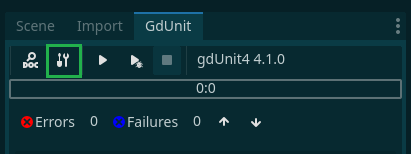
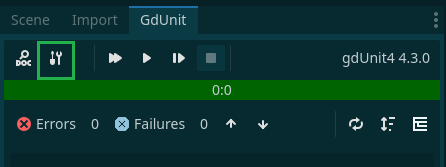
GD-478: Update documentation to v4.3.0
# Why
see https://github.com/MikeSchulze/gdUnit4/issues/478

# What
- added new screen shots
- added inspecor information about sort and presentation modes

diff --git a/assets/css/site-header.css b/assets/css/site-header.css
@@ -38,6 +38,11 @@ h4 {
     margin-top: 1.25rem;
 }
 
+.site-logo {
+    width: 120%;
+    height: 160px;
+}
+
 img.centered {
     display: block;
     margin-left: auto;

diff --git a/_testing/run-tests.md b/_testing/run-tests.md
@@ -5,11 +5,12 @@ nav_order: 2
 ---
 
 # How to Run Test
+
 Running tests in GdUnit is a straightforward process, and you have several options to choose from:
 
 ### Using the GdUnit Inspector
-The GdUnit Inspector provides various options to run single unit tests or sets of testsuites:
 
+The GdUnit Inspector provides various options to run single unit tests or sets of testsuites:
 
 - **Using the Button Bar**: You can use the buttons available in the GdUnit Inspector's to run tests.<br>
 Refer to the [Using the Button Bar](#button-bar) section for more details.
@@ -21,13 +22,14 @@ Explore the [Using the Inspector Tree](#test-run-overview-tree) section for inst
 Find more information in the [Using the Run Overall Button](#the-run-overall-button) section.
 
 ### Using the Editor Context Menu
+
 The Editor Context Menu provides options to run or debug individual test cases or entire testsuites:
 
 - **Using the Context Menu**: You can right-click on a specific test case or testsuite in the editor and select the appropriate option from the context menu.<br>
 For detailed steps, refer to the [Using the Context Menu](/gdUnit4/first_steps/getting-started/#execute-your-test) section.
 
-
 ### Using the FileSystem Context Menu
+
 The FileSystem Context Menu allows you to run or debug individual testsuites or sets of testsuites by selecting the desired testsuite or folder:
 
 ![FileSystem Context Menu](/gdUnit4/assets/images/inspector/run-test-filesystem.png){:.centered}
@@ -37,9 +39,11 @@ These options provide flexibility in running tests based on your preferences and
 ## The GdUnit Test Inspector/Explorer
 
 ### Definition
+
 The GdUnit inspector provides an overview of the currently executed tests and allows you to navigate them. It allows you to select individual tests and view possible test failures. The integrated status and info bar gives you a quick overview of the last test run.
 
 ![]({{ site.baseimg }}/gdUnit4/assets/images/inspector/inspector.png){:.centered}
+
 - [(1) Button Bar](#button-bar)
 - [(2) Status Bar](#status-bar)
 - [(3) Test Run Overview](#test-run-overview-tree)
@@ -49,6 +53,7 @@ The GdUnit inspector provides an overview of the currently executed tests and al
 ---
 
 ### Button Bar
+
 The button bar contains several buttons that allow you to perform different actions in GdUnit:
 ![]({{ site.baseimg }}/gdUnit4/assets/images/inspector/button-bar.png){:.centered}
 
@@ -56,19 +61,20 @@ The button bar contains several buttons that allow you to perform different acti
 |--- | --- |
 |(1)| Opens the GdUnit documentation page in your browser |
 |(2)| Opens the GdUnit settings window |
-|(3)| (Re)Run the tests in runtime mode |
-|(4)| (Re)Run the tests in debug mode |
-|(5)| Stops the current test run |
-|(6)| Displays the version of GdUnit |
+|(3)| Run Overall tests |
+|(4)| (Re)Run the tests in runtime mode |
+|(5)| (Re)Run the tests in debug mode |
+|(6)| Stops the current test run |
+|(7)| Displays the version of GdUnit |
 
 Note that the keyboard shortcuts for these buttons may vary depending on your specific GdUnit configuration.
 
-{% include advice.html 
+{% include advice.html
 content="When running tests in GdUnit, it is recommended to first run them in debug mode (4) in order to get the line number where the failure occurred in the test report. This is because Godot does not provide stack trace information when running in runtime mode (3), which can result in the failure line not being displayed in the report."
 %}
 
-
 #### The Run Overall Button
+
 The **Run Overall** button provides a convenient way to execute all the tests in your project at once, instead of running them one by one or selecting a custom set of tests. By clicking the "Run Overall" button, you can initiate the execution of all the tests in your project, saving you time and effort.
 ![](/gdUnit4/assets/images/inspector/overall-button.png){:.centered}
 To enable the **Run Overall** button in GdUnit4, you need to adjust the [UI settings](/gdUnit4/first_steps/settings/#ui-settings).<br>
@@ -77,6 +83,7 @@ Once you have enabled the **Run Overall** button, it should be visible in the in
 ---
 
 ### Status Bar
+
 This area gives you information about the current/last test execution, such as the progress and errors/failures found.<br>
 With the arrow buttons, you can navigate back and forth over found failures.<br>
 ![](/gdUnit4/assets/images/inspector/status-bar.png){:.centered}
@@ -88,8 +95,26 @@ With the arrow buttons, you can navigate back and forth over found failures.<br>
 |(3)| Number of test case failures found|
 |(4)| Navigate to previous failure |
 |(5)| Navigate to next failure |
+|(6)| Run discover tests |
+|(7)| Sort the tree |
+|(8)| Change the tree presentation |
 
-{% include advice.html 
+- **Sorting Options**
+
+    The sorting option controls how the test results are displayed in the inspector tree. You can sort the results by:
+
+  - **Name Ascending**: Sorts the test cases alphabetically from A to Z.
+  - **Name Descending**: Sorts the test cases alphabetically from Z to A.
+  - **Test Execution Time**: Sorts the test cases based on the time they took to execute, from longest to shortest.
+
+- **Tree Presentation**
+
+    The tree presentation setting allows you to switch between two views:
+
+  - **Flat View**: Displays all test cases in a single, flat list without any hierarchical structure.
+  - **Tree View**: Displays test cases in a hierarchical structure, reflecting the path of your test files and suites.
+
+{% include advice.html
 content="Whats the difference between errors and failures?<br>
 GdUnit distinguishes between errors and failures. An error is a hard failure such as a test abort or timeout, while a failure is a test error caused by a failed assertion."
 %}
@@ -97,6 +122,7 @@ GdUnit distinguishes between errors and failures. An error is a hard failure suc
 ---
 
 ### Test Run Overview Tree
+
 This area provides an overview of all executed/executing tests and their execution status in real-time. Here, you can navigate through the tests and view the report for each individual test by selecting it. You can also run the currently selected test or test suite again by right-clicking to open a context menu.
 ![](/gdUnit4/assets/images/inspector/test-overview.png){:.centered}
 
@@ -107,6 +133,7 @@ content="Double-clicking on a test in the test run overview allows you to jump d
 ---
 
 ### Failure Report
+
 This area displays the failure report of the currently selected failed test.<br>
 GdUnit generates the failure report based on the used assert, according to the scheme **expected** vs **current** value.
 ![](/gdUnit4/assets/images/inspector/report.png){:.centered}
@@ -114,17 +141,17 @@ GdUnit generates the failure report based on the used assert, according to the s
 ---
 
 ### Info Bar
+
 This section provides you with information about the total duration of the test execution and any orphaned nodes found.<br>
 ![](/gdUnit4/assets/images/inspector/info-bar.png){:.centered}
 
-* **Time**<br>
+- **Time**<br>
     The time taken to execute all tests.
-* **Orphans**<br>
+- **Orphans**<br>
      The number of nodes that were not cleaned up after the execution of the tests. Orphaned nodes can cause memory leaks, and it's essential to clean them up after the execution of the tests.
 {% include advice.html
-content="It's recommended to always check for orphaned nodes after the execution of tests to ensure there are no memory leaks in your game/application." 
+content="It's recommended to always check for orphaned nodes after the execution of tests to ensure there are no memory leaks in your game/application."
 %}
 
-
 ---
-<h4> document version v4.1.0 </h4>
+<h4> document version v4.3.0 </h4>

diff --git a/_first_steps/settings.md b/_first_steps/settings.md
@@ -12,6 +12,7 @@ GdUnit4 provides several customizable settings to meet your testing needs. To ac
 ---
 
 ## Common Settings
+
 ![](/gdUnit4/assets/images/settings/settings-common.png){:.centered}
 
 * **Common**
@@ -22,75 +23,88 @@ GdUnit4 provides several customizable settings to meet your testing needs. To ac
    This option enables or disables the GdUnit update notification. If enabled, a notification will appear when starting Godot to inform you about new updates available for installation.
 
 * **Test**
+  * **Test Discovery**<br>
+   This setting configures the auto-discovery of tests. If enabled, it will scan the configured Test Root Folder for available tests at startup.
+
   * **Test Root Folder**<br>
    This setting defines the root folder where automated tests will be generated. By default, tests are usually located parallel to the source code in a folder named 'test'. However, you can customize this location by specifying a different folder path.
-```python
-   res://project/src/folder_a/folder_b/my_class.gd
-   res://project/test/folder_a/folder_b/my_class_test.gd
-```
+   The default root folder is **test**.
+
+      ```python
+      res://project/src/folder_a/folder_b/my_class.gd
+      res://project/test/folder_a/folder_b/my_class_test.gd
+      ```
 
   * **Test Suite Naming Nonvention**<br>
-   Configures how to generate the test-suite file name. 
-   1. *AUTO_DETECT* - generates the file name by source file naming convention.
-   2. *SNAKE_CASE*  - generates the file name in snake case convention.
-   3. *PASCAL_CASE* - generates the file name in pascal case convention.
+      Configures how to generate the test-suite file name.
+
+      1. *AUTO_DETECT* - generates the file name by source file naming convention.
+      2. *SNAKE_CASE*  - generates the file name in snake case convention.
+      3. *PASCAL_CASE* - generates the file name in pascal case convention.
 
   * **Test Timeout Seconds**<br>
-   This setting configures the default timeout for a test case in seconds. If a test case runs longer than the specified timeout, the test will be interrupted and fail. You can override the default timeout on a per-test-case basis by specifying a different timeout using the `timeout` argument.
+      This setting configures the default timeout for a test case in seconds. If a test case runs longer than the specified timeout, the test will be interrupted and fail. You can override the default timeout on a per-test-case basis by specifying a different timeout using the `timeout` argument.
 
 {% tabs settings-timeout %}
 {% tab settings-timeout GdScript %}
+
 ```ruby
    # Configures the test case to fail after a maximum of 2 seconds runtime
    func test_foo(timeout = 2000) -> void:
    ...
 ```
+
 {% endtab %}
 {% tab settings-timeout C# %}
+
 ```cs
    // Configures the test case to fail after a maximum of 2 seconds runtime
    [TestCase(Timeout = 2000)]
    public async Task foo() {
    }
 ```
+
 {% endtab %}
 {% endtabs %}
 
 ---
 
 ## UI Settings
+
 ![](/gdUnit4/assets/images/settings/settings-ui.png){:.centered}
+
 * **Inspector**
-   * **Node Collapse**<br>
+  * **Node Collapse**<br>
       By default, the testsuite node in the Inspector is collapsed after a successful test run. This option controls whether the testsuite node remains collapsed or expanded.
+  * **Tree Sort Mode**<br>
+      This setting controls the tree sorting by name in ascending or descending order, or by test execution time.
+  * **Tree View Mode**<br>
+      This setting controls whether the inspector tree is presented as a flat view or a tree view.
 
 * **ToolBar**
-   * **Run Overall**<br>
+  * **Run Overall**<br>
       This setting controls the visibility of the 'run overall' button in the inspector tool bar. By default, the button is hidden, but you can show or hide it as desired.
 
 ---
 
-
 ## Shortcuts Settings
+
 ![](/gdUnit4/assets/images/settings/settings-shortcuts.png){:.centered}
 
+* **Editor**<br>
+ This section allows you to customize the keyboard shortcuts for the script editor in Godot. You can customize the shortcuts for various actions such as create test, run test, and debug test.
 
- * **Editor**<br>
- This section allows you to customize the keyboard shortcuts for the script editor in Godot. You can customize the shortcuts for various actions such as create test, run test, and debug test. 
-
- * **Filesystem**<br>
+* **Filesystem**<br>
 In this section, you can customize the keyboard shortcuts for the filesystem inspector in Godot. You can customize shortcuts for various actions, such as running tests and debugging tests.
 
-
- * **Inspector**<br>
+* **Inspector**<br>
  In this section, you can customize the keyboard shortcuts for the GdUnit inspector in Godot. You can customize shortcuts for various actions, such as running tests, debugging tests, running overall tests, and stopping the current test run.
-
 
 ---
 
 ## Report Settings
-![](/gdUnit4/assets/images/settings/settings-report.png){:.centered}
 
+![](/gdUnit4/assets/images/settings/settings-report.png){:.centered}
 
 * **Asserts**
   * **Strict Number Type Compare**<br>
@@ -116,15 +130,14 @@ In this section, you can customize the keyboard shortcuts for the filesystem ins
 ---
 
 ## Templates Settings
+
 When creating a new test-case in GdUnit, you can use this template to generate your test-suite. To do this, simply right-click on the desired function you want to test and select 'Create Test' from the context menu. This will generate a new test-case using the default template, which you can customize to suit your testing needs.
 
 ![](/gdUnit4/assets/images/settings/settings-template.png){:.centered}
 
-To personalize your test-suite template in GdUnit, you can use the provided tags to modify it according to your needs.<br> 
+To personalize your test-suite template in GdUnit, you can use the provided tags to modify it according to your needs.<br>
 These tags allow you to add custom placeholders and data fields to your test-suite, making them more informative and easier to manage. To view a list of all the supported tags, simply click on the **Supported Tags** button in the template page.
 ![](/gdUnit4/assets/images/settings/settings-template-editor-tags.png){:.centered}
 
-
-
 ---
-<h4> document version v4.1.0 </h4>
+<h4> document version v4.3.0 </h4>

diff --git a/index.md b/index.md
@@ -4,10 +4,10 @@ title: About
 nav_order: 1
 ---
 
-# GdUnit4 V4.2.5
+# GdUnit4 V4.3.0
 
 ![GdUnit4](\gdUnit4\assets\images\background.png)
-build on (v4.2.1.stable.official [b09f793f5])
+build on (v4.2.2.stable.official [15073afe3])
 
 ## What is GdUnit4?
 
@@ -26,6 +26,7 @@ GdUnit4 is a powerful tool that supports Test-Driven Development ([TDD](https://
 
 * Support for writing and executing tests in GdScript or C#
 * Embedded test Inspector in Godot for easy navigation of your test suites
+* Test Discovery, searches for tests at runtime and automatically adds them to the inspector.
 * Convenient interface for running test-suites directly from Godot<br>
   One of the main features of GdUnit4 is the ability to run test-suites directly from the Godot editor using the context menu. You can run test-suites from the FileSystem panel, the ScriptEditor, or the GdUnit Inspector. To do this, simply right-click on the desired test-suite or test-case and select "Run Test(s)" from the context menu. This will run the selected tests and display the results in the GdUnit Inspector.<br>
   You can create new test cases directly from the ScriptEditor by right-clicking on the function you want to test and selecting "Create TestCase" from the context menu.
@@ -52,6 +53,5 @@ GdUnit4 is a powerful tool that supports Test-Driven Development ([TDD](https://
   * Support for writing tests in C# [gdUnit4.api](https://github.com/MikeSchulze/gdUnit4Net/blob/master/api/README.md){:target="_blank"}
   * Supporting for the Visual Studio Test Platform to run and debug tests [gdunit4.test.adapter](https://github.com/MikeSchulze/gdUnit4Net/tree/master/testadapter/README.md){:target="_blank"}
 
-
 ---
-<h4> document version v4.2.5 </h4>
+<h4> document version v4.3.0 </h4>

diff --git a/_first_steps/install.md b/_first_steps/install.md
@@ -63,4 +63,4 @@ After successfully installing and activating the GdUnit4 plugin, you will find t
 ![](/gdUnit4/assets/images/install/activate-gdunit-step3.png)
 
 ---
-<h4> document version v4.2.5 </h4>
+<h4> document version v4.3.0 </h4>
